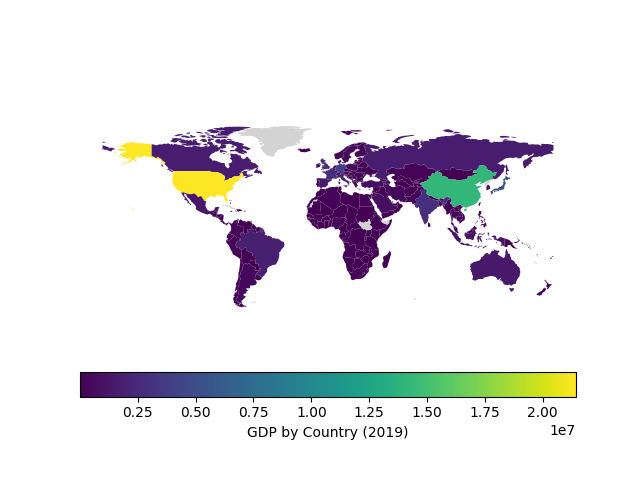
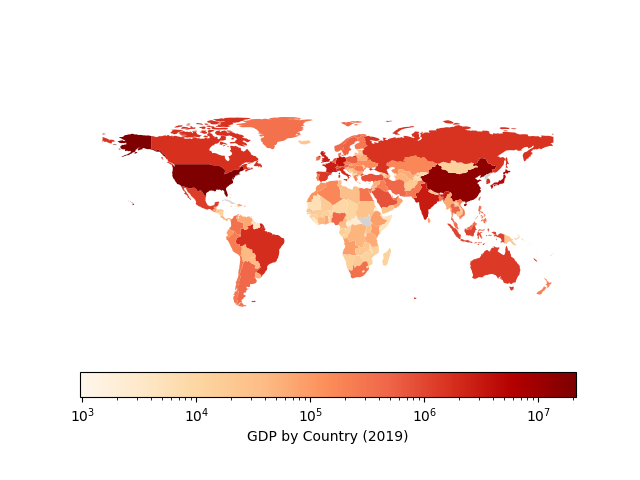
change plot to log and combine regions into countries

Changed region(s): [[0.1562, 0.2188, 0.875, 0.6562], [0.125, 0.75, 0.9062, 0.9375], [0.8438, 0.5625, 0.875, 0.625]]

diff --git a/main.py b/main.py
@@ -3,6 +3,7 @@ from weo import WEO, download
 import datetime
 # import datapungibea
 import matplotlib.pyplot as plt
+import matplotlib
 import fiona
 import geopandas as gp
 
@@ -76,6 +77,7 @@ def get_country_data(year):
     countries.columns = ['Country', 'Country Code', 'GDP']
 
     # clean up data
+    countries = countries[countries['Country'] != 'West Bank and Gaza']
     countries['GDP'] = countries['GDP'].str.replace(',','')
     countries.loc[countries['Country'] == 'Syria', 'GDP'] = '60.043'
     countries['GDP'] = countries['GDP'].astype(float)
@@ -117,10 +119,21 @@ def combine_data(sheet1, sheet2, sort):
 
     return data
 
+
+class Reference:
+    def __init__(self, title, url):
+        self.title = title
+        self.url = url
+
+    @property
+    def ref():
+        return '<ref>{{cite web|title = ' + title + 'url=|' + url + '|access-date=' + current_date + '}}</ref>'
+
 def write_wikitable(year):
     current_date = str(datetime.date.today())
     data = get_data_year(year)
     world_gdp = data[~data['State?']]['GDP'].sum()
+    weo = Reference('World Economic Outlook Database', 'https://www.imf.org/en/Publications/WEO/weo-database/' + str(year) + '/October')
 
     # open file to write
     out = open('out/wikitables/countrystategdp.txt', 'w')
@@ -128,7 +141,7 @@ def write_wikitable(year):
     # create sortable centered wikitable and include all settings and references
     out.write('{| class="wikitable sortable" style="text-align: right; margin-left: auto; margin-right: auto; border: none;"')
     out.write('\n|+ National GDPs and U.S. State GDPs, ' + str(year))
-    out.write('<ref>{{cite web|title = World Economic Outlook Database|url=https://www.imf.org/en/Publications/WEO/weo-database/' + str(year) + '/October|access-date=' + current_date + '}}</ref>')
+    out.write(weo.ref)
     out.write('\n! # !! Country or U.S. State !! GDP ([[USD]] million)\n')
     out.write('|- style="font-weight:bold; background: #eaecf0"\n')
     out.write("|   || align=\"left\" | {{noflag}} ''[[Gross world product|World]]'' || " + f'{world_gdp:,}\n')
@@ -207,7 +220,7 @@ def make_map(year):
     # read shapefile using Geopandas
     shapefile = 'data/maps/countries_110m/ne_110m_admin_0_countries.shp'
     gdf = gp.read_file(shapefile)[['ADMIN', 'ADM0_A3', 'geometry']]
-    gdf.columns = ['country', 'country_code', 'geometry']
+    gdf.columns = ['region', 'country_code', 'geometry']
 
     # drop row corresponding to Antarctica
     gdf = gdf.drop(gdf.index[159])
@@ -217,6 +230,22 @@ def make_map(year):
     countries.columns = ['country_code', 'gdp']
 
     data = gdf.merge(countries, on='country_code', how='left')
+    pd.set_option('display.max_rows', None)
+
+    # combine regions into countries as designated by IMF
+    data['country'] = data['region']
+    replacements = {
+        'Kosovo': 'Republic of Serbia',
+        'Western Sahara': 'Morocco',
+        'Greenland': 'Denmark',
+        'Somaliland': 'Somalia',
+        'Falkland Islands': 'United Kingdom',
+        'French Southern and Antarctic Lands': 'France',
+        'New Caledonia': 'France'
+    }
+    for item in replacements:
+        data.loc[data['region'] == item, 'country'] = replacements[item]
+    data = data.dissolve(by='country')
 
     fig, ax = plt.subplots()
     ax.axis('off')
@@ -233,7 +262,9 @@ def make_map(year):
         # scheme='quantiles',
         missing_kwds={
             'color': 'lightgrey'
-        }
+        },
+        cmap='OrRd',
+        norm=matplotlib.colors.LogNorm(vmin=data['gdp'].min(), vmax=data['gdp'].max())
     )
     plt.savefig('out/maps/world_economies.png')
     plt.show()
